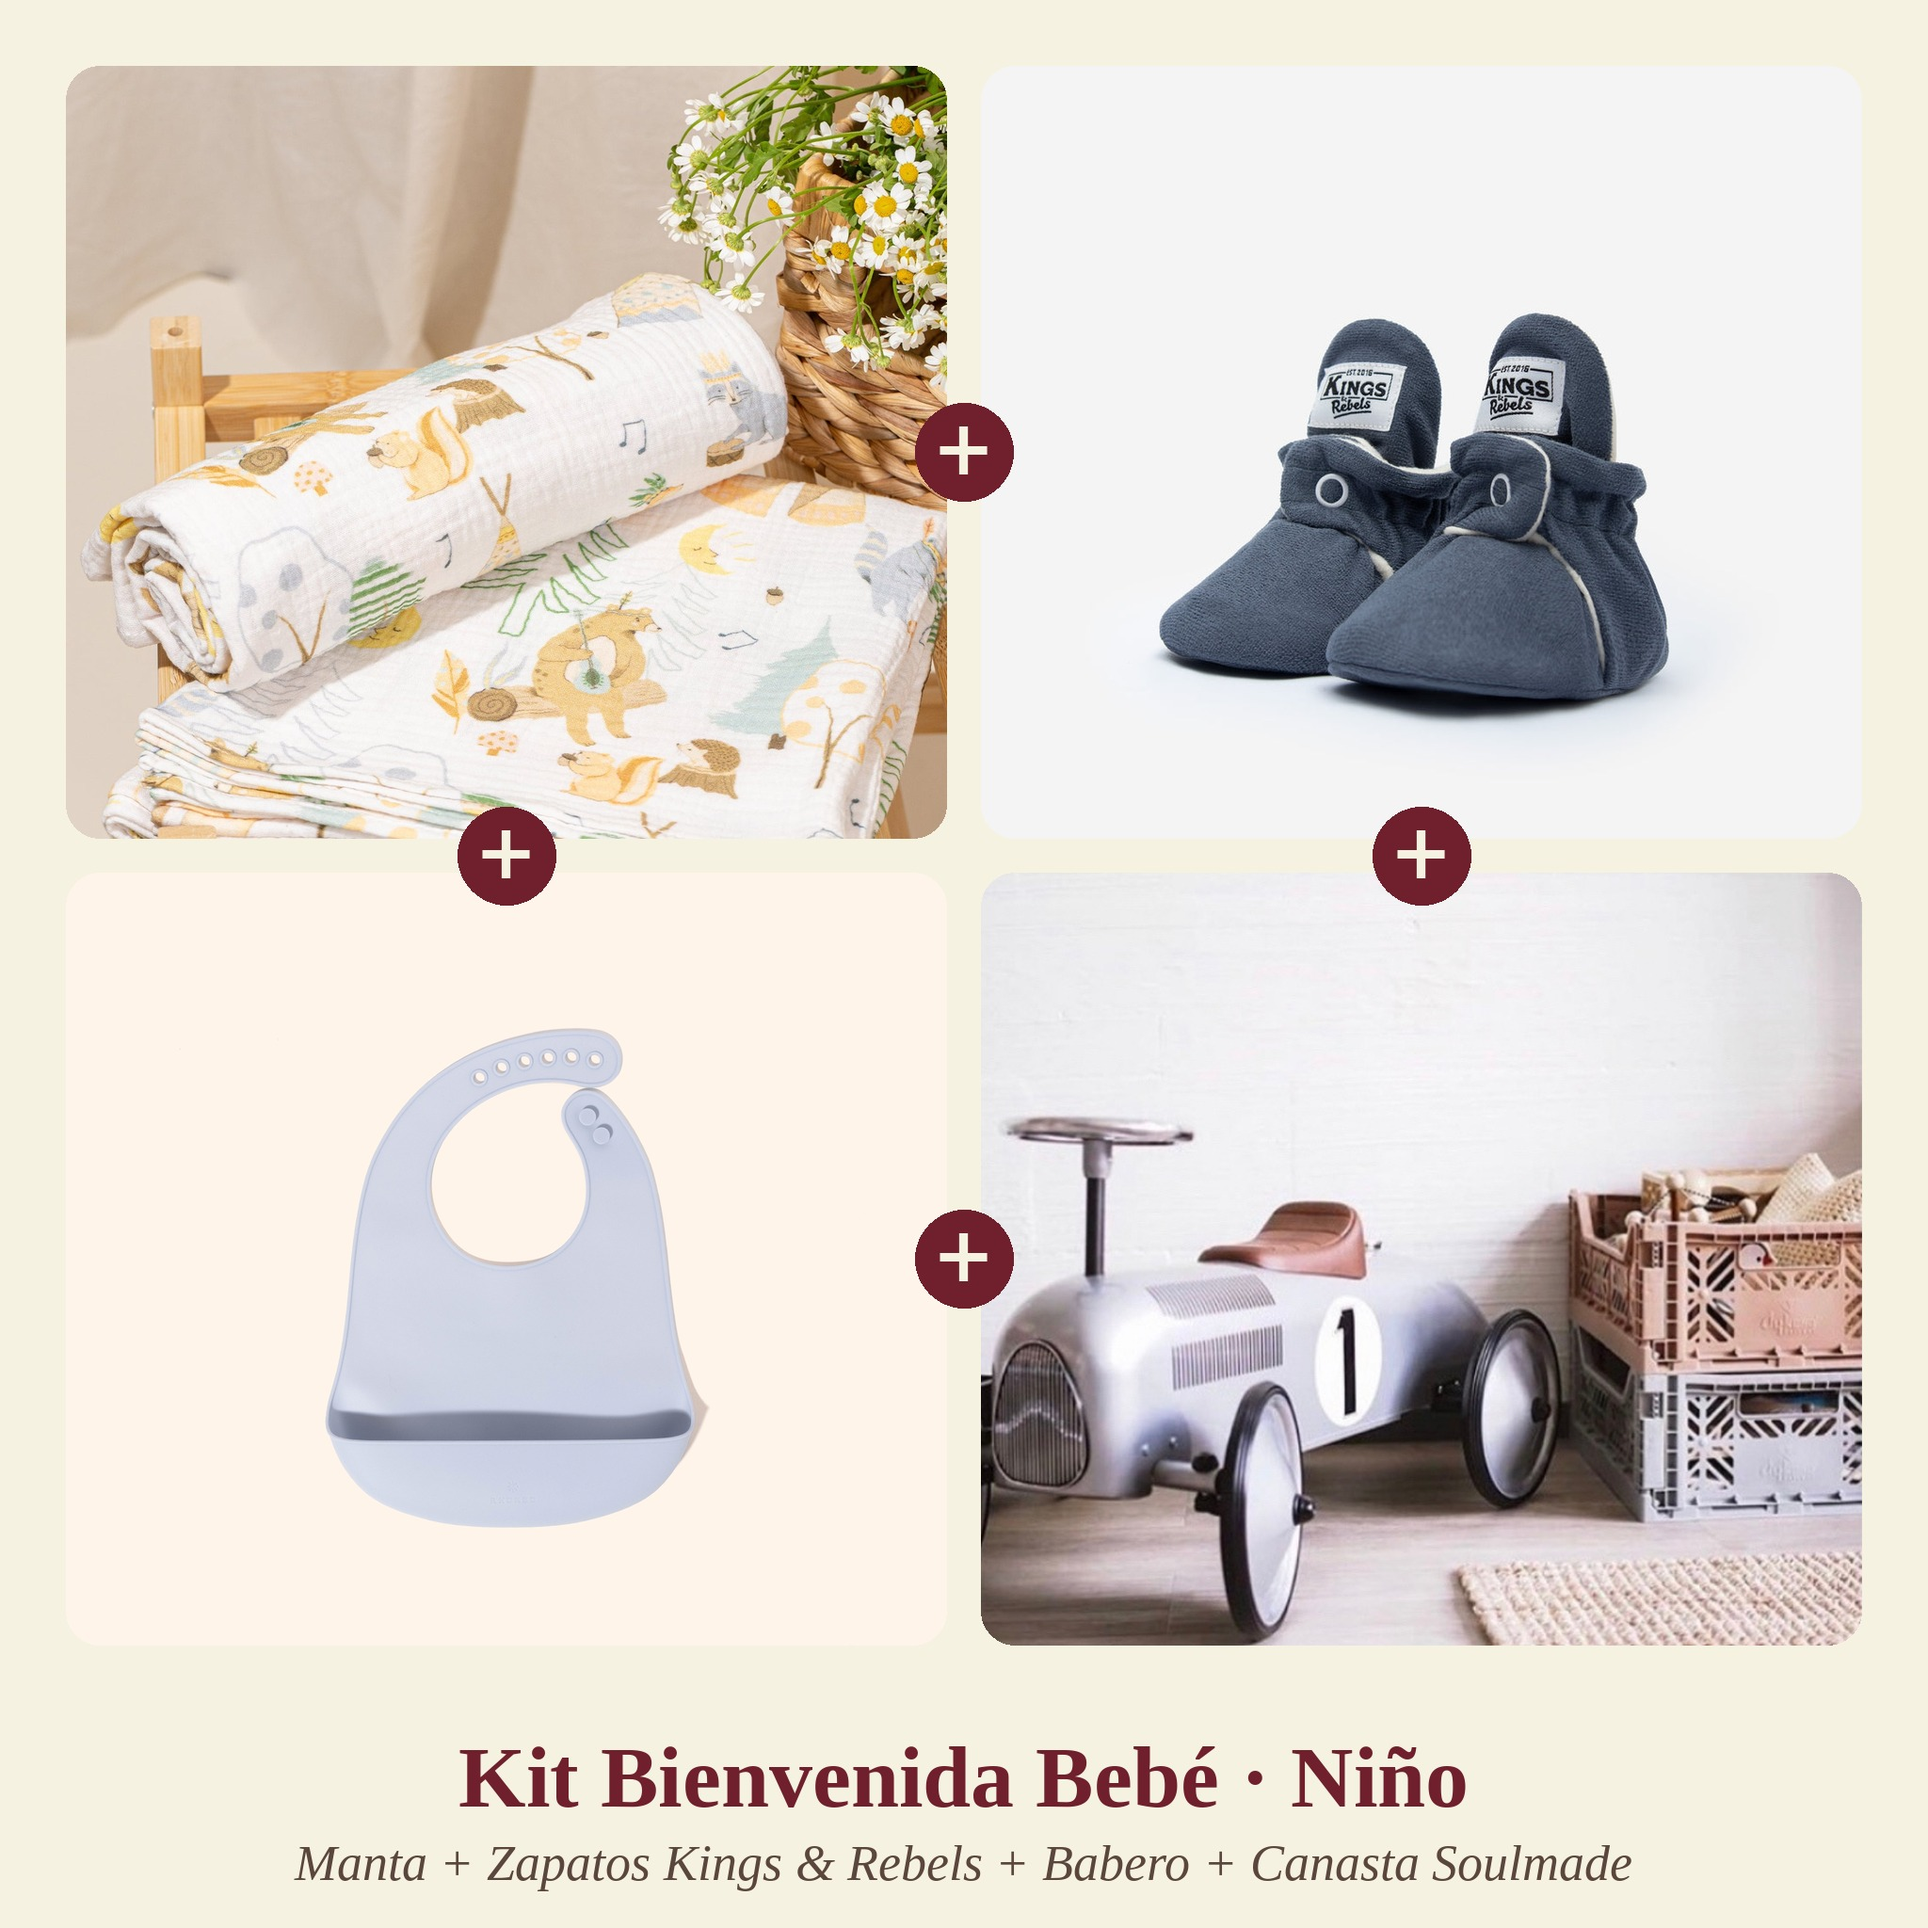
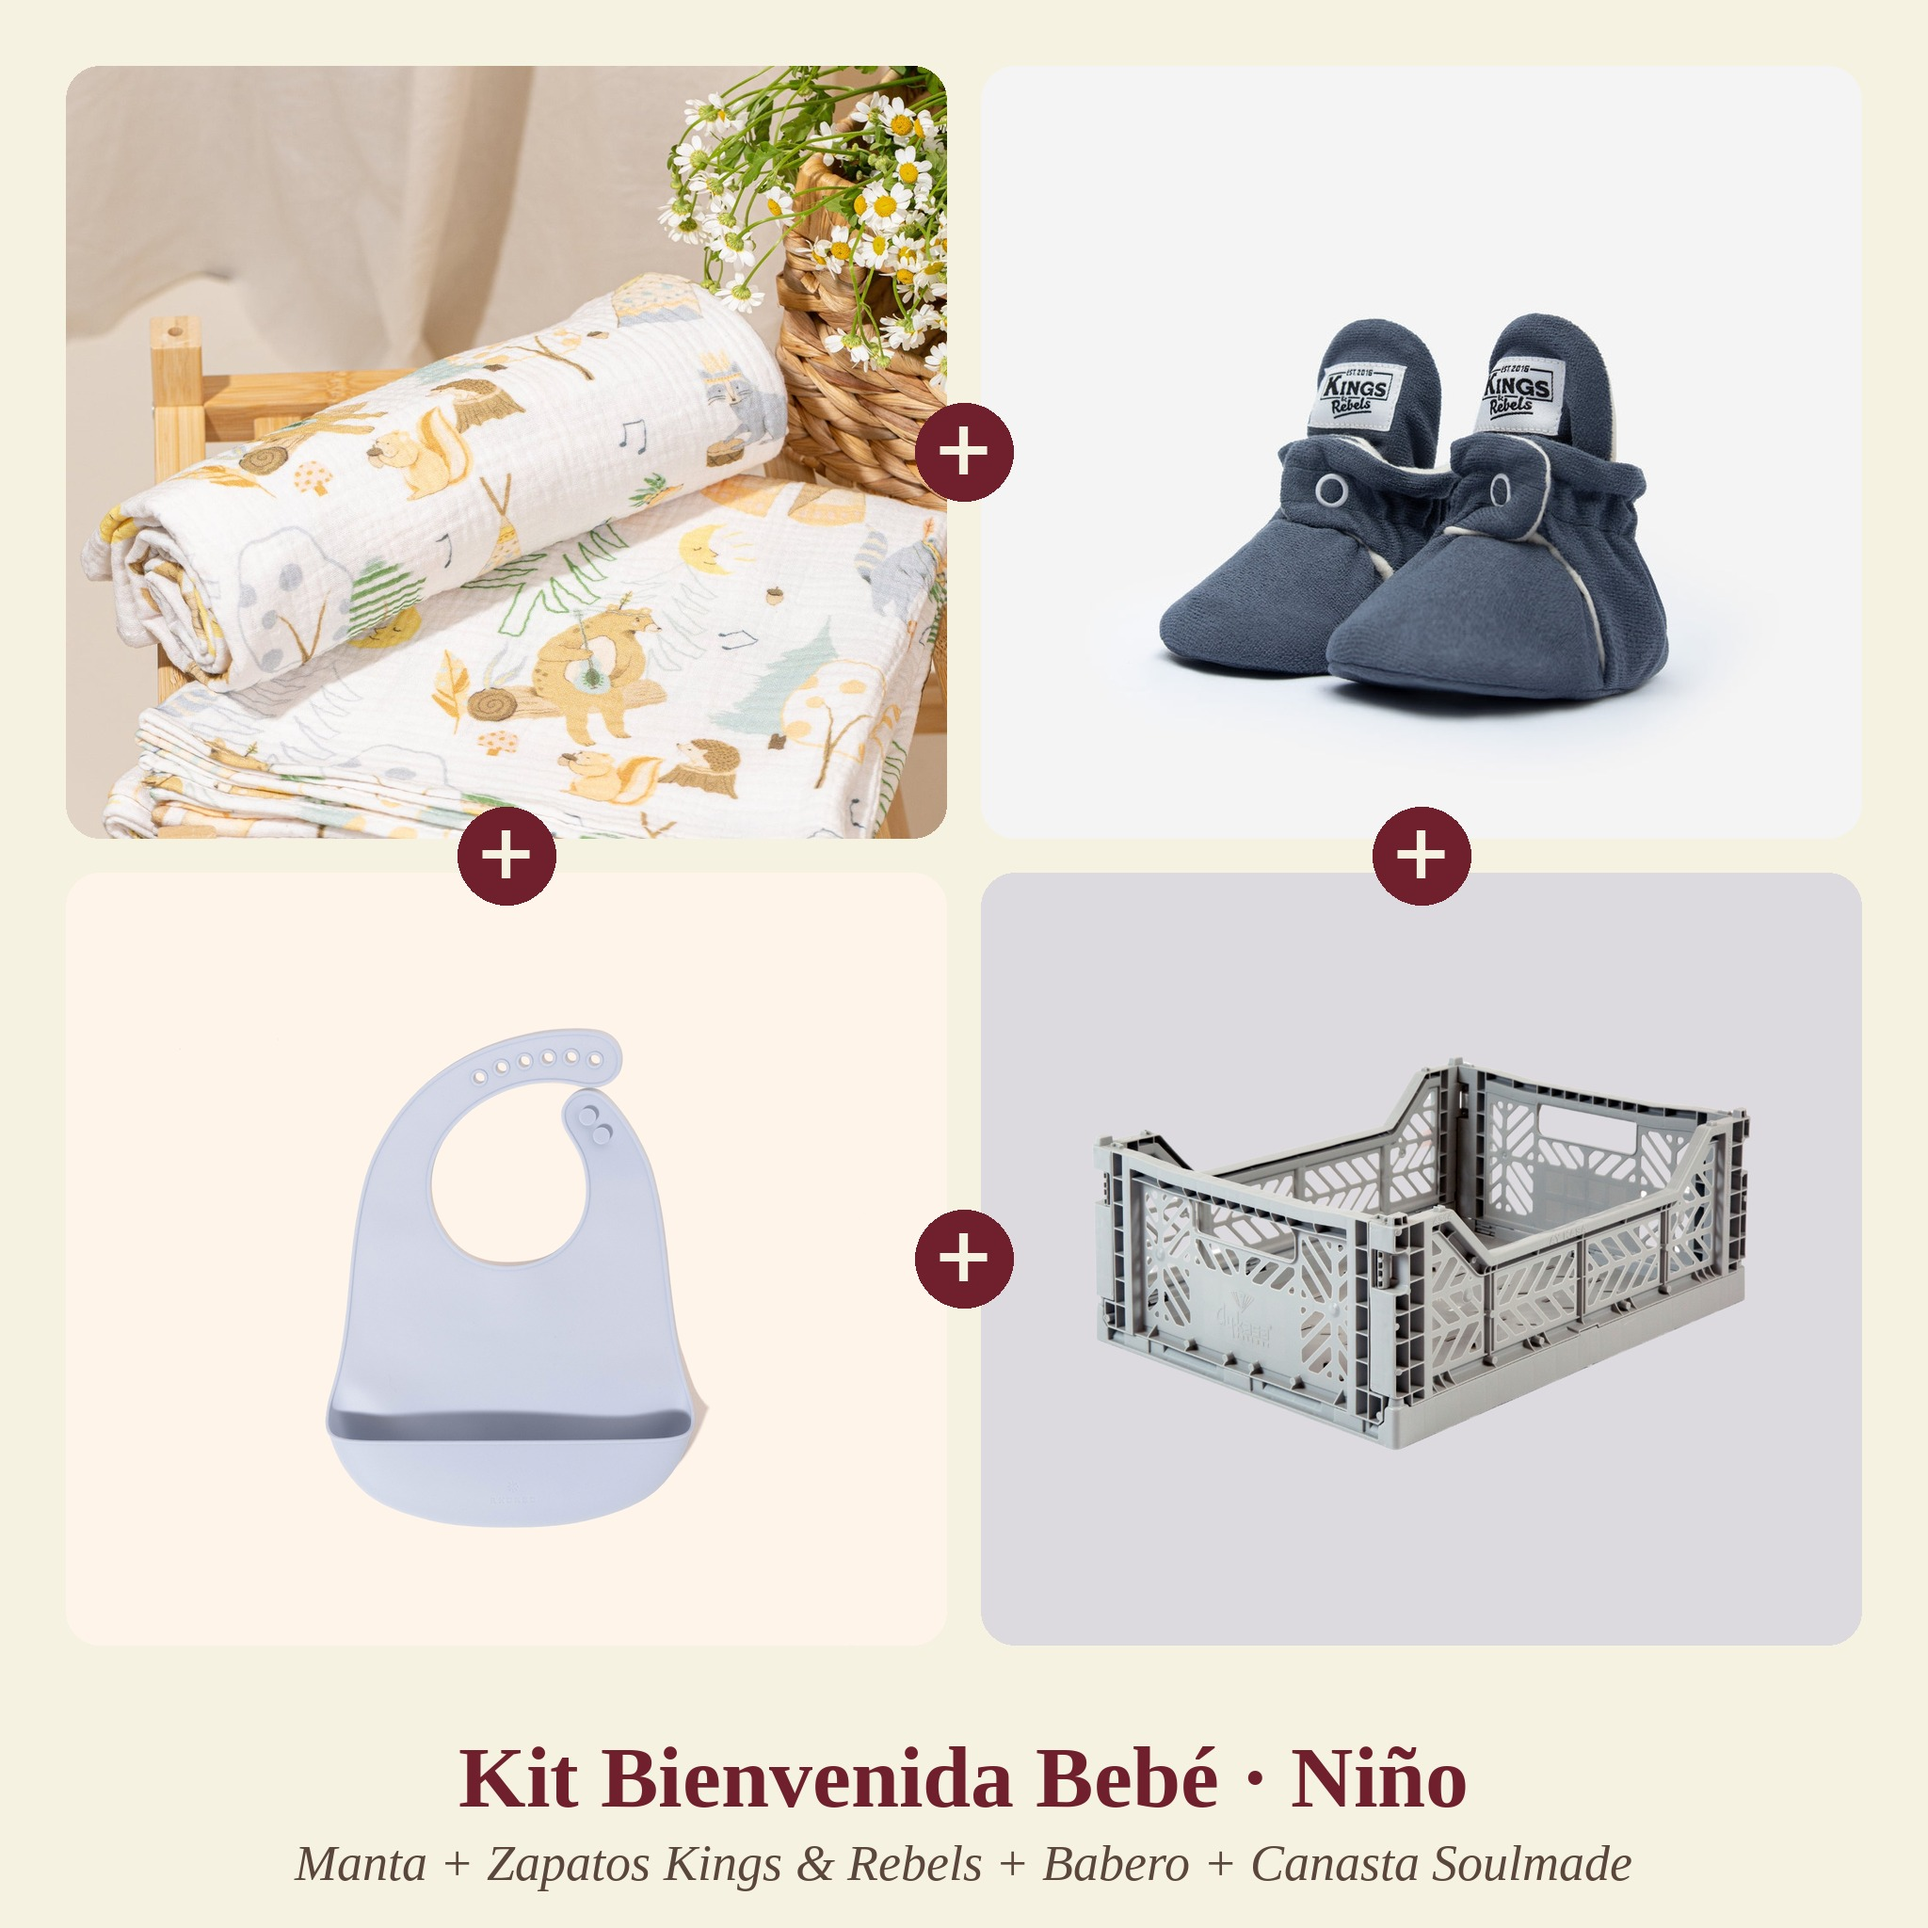
Kits: canasta gris sola en Bienvenida niño; Muselina+Babero reemplazado por Babero + Kings & Rebels
Claude-Session: https://claude.ai/code/session_014kLtJy3k3htoMbeUsWCqSX

Changed region(s): [[0.5, 0.4375, 0.9688, 0.875], [0.9375, 0.4375, 0.9688, 0.5]]

diff --git a/kits/README.md b/kits/README.md
@@ -12,9 +12,9 @@ Facebook & Instagram no admite este tipo de kit.
 
 | Kit | Niño | Niña | Precio | Antes |
 |---|---|---|---|---|
-| Kit Bienvenida Bebé (+ talla 3M/6M) | Manta Bosque + Gamuza Night Blue + Babero Drapeau Azul + Midi Box Gray | Manta Animal Print + Gamuza Palo Rosa + Babero Drapeau Rosa + Midi Box Milk Tea | 225.000 | 252.900 |
+| Kit Bienvenida Bebé (+ talla 3M/6M) | Manta Bosque + Gamuza Night Blue + Babero Drapeau Azul + Midi Box Gray (foto: una sola canasta gris) | Manta Animal Print + Gamuza Palo Rosa + Babero Drapeau Rosa + Midi Box Milk Tea | 225.000 | 252.900 |
 | Kit Siesta y Baño | Cobija + Toalla microfibra Mar | Cobija + Toalla microfibra Jardín Mágico | 169.000 | 188.000 |
 | Kit Manta de Muselina + Babero | Manta + Babero doble faz Bosque | Manta + Babero doble faz Animal Print | 116.000 | 129.000 |
-| Kit Muselina con Encaje + Babero HM (+ color muselina) | Muselina + Babero orgánico Azul | Muselina + Babero volantes Salmón | 135.000 | 150.000 |
+| Kit Babero + Zapatos Kings & Rebels (+ talla 3M/6M) | Babero orgánico Azul HM + Gamuza Night Blue | Babero volantes Salmón HM + Gamuza Palo Rosa | 85.000 | 94.000 |
 
 Fotos: `kits/*.jpg` (una por versión, enlazada a su variante), generadas con `generar_fotos_kits.py`.
